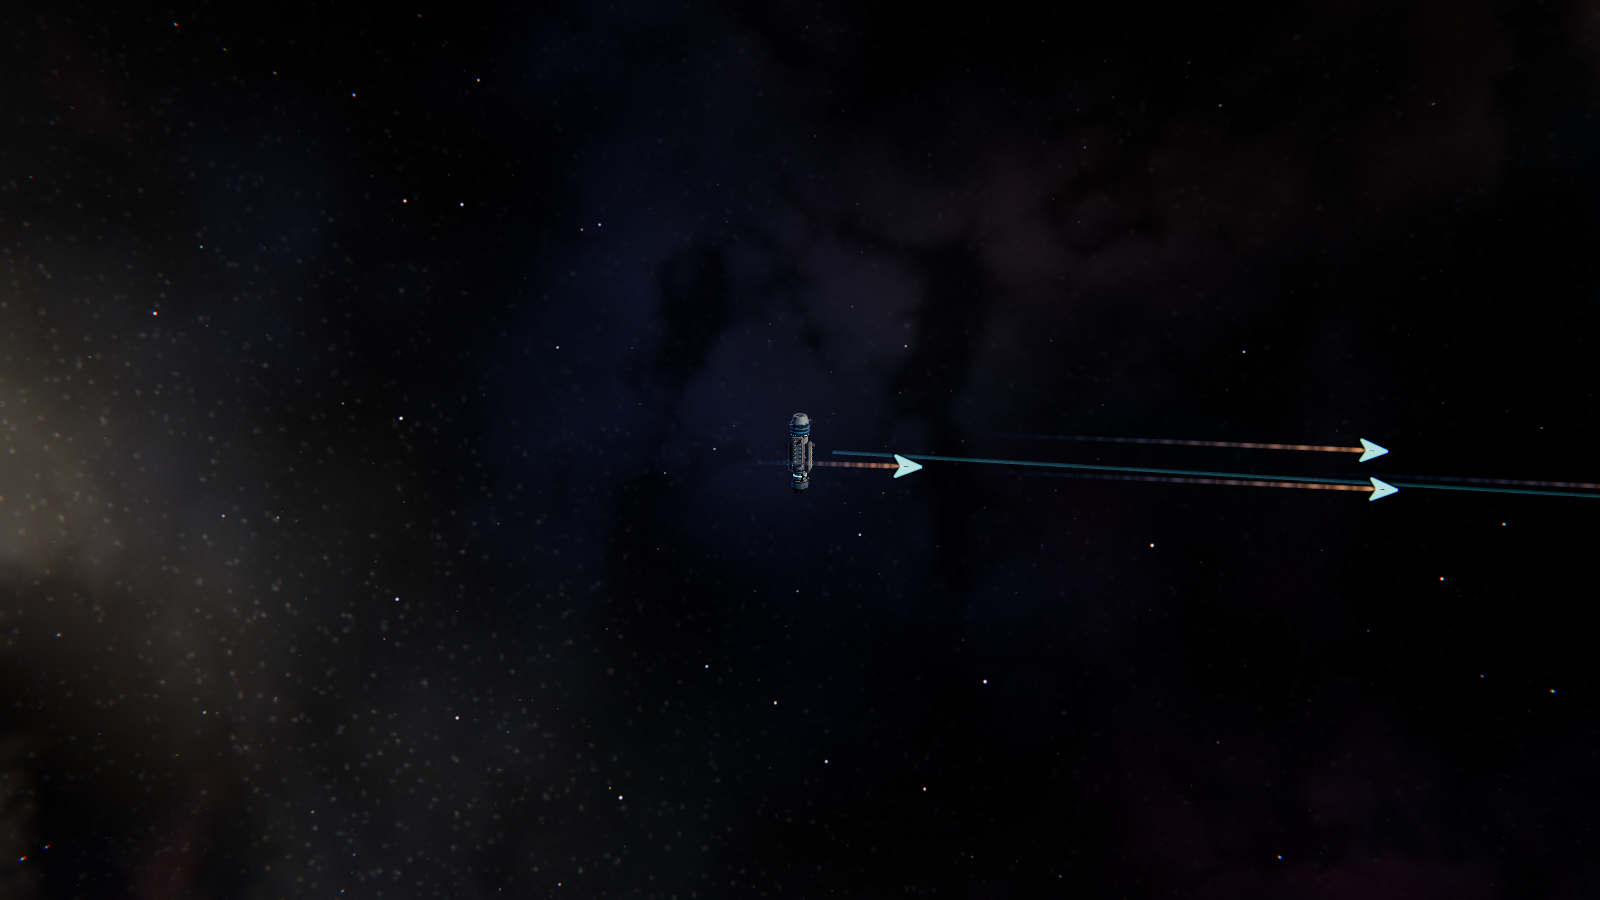
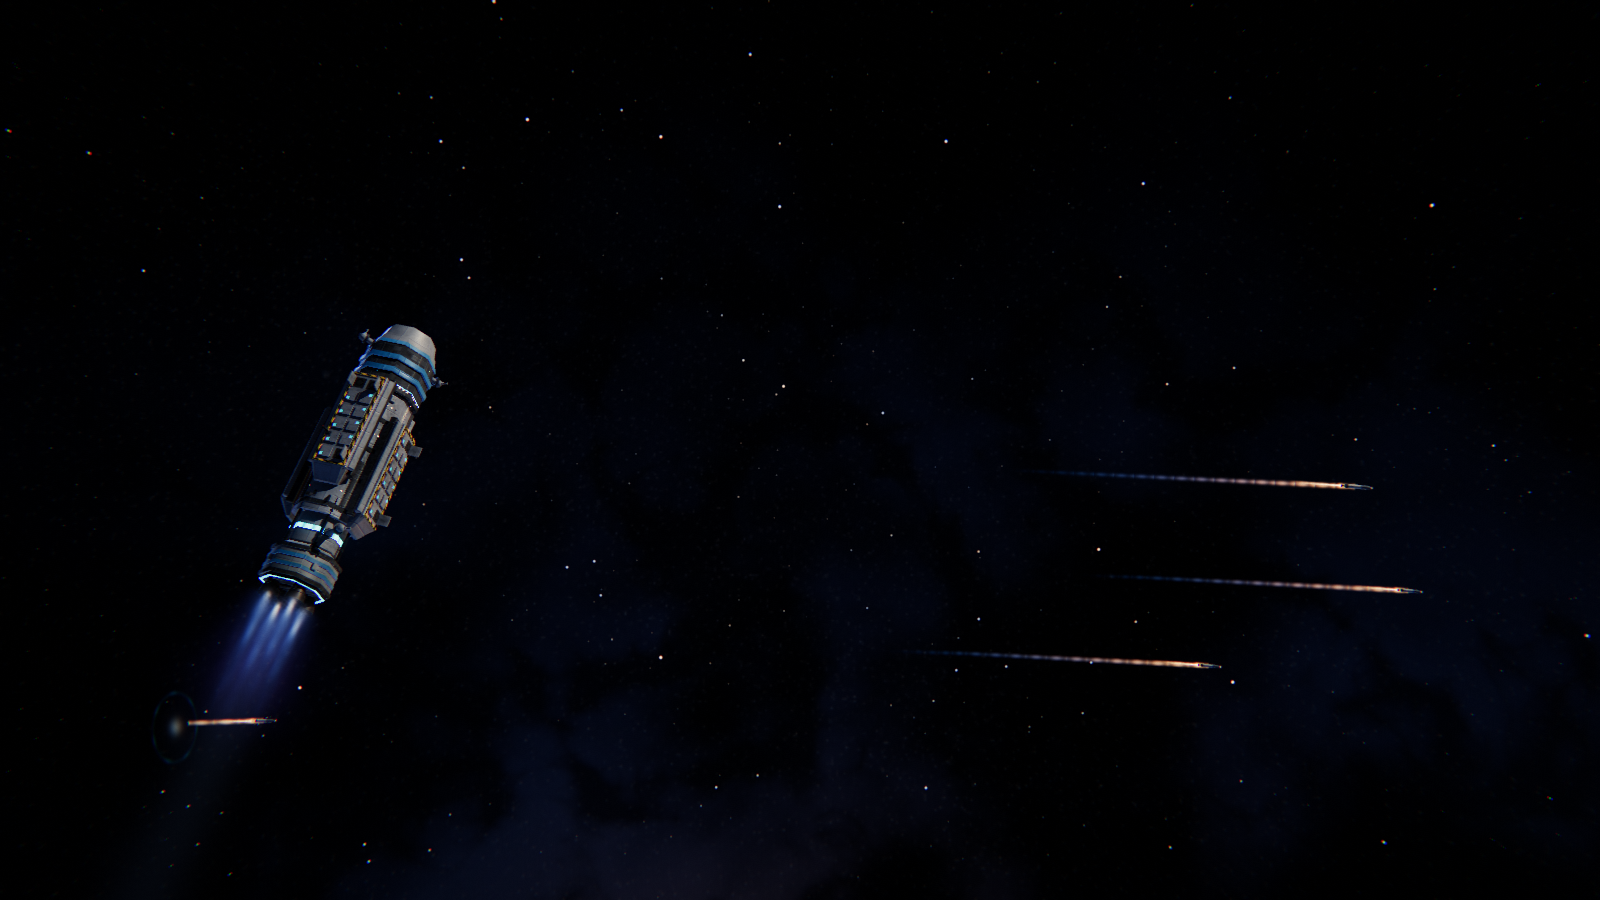
README: launch-tracks.png re-shot close - the torpedo cruiser in B8 with four engine trails leaving it
The cruiser a third of the frame with its cells, three rounds of a four-cell
launch pulling away on parallel trails and the fourth lighting off the stern
(B8, alpha_1, T+37.4); explicit camera, 40 degree lens, fleet-range torpedo
arrowheads switched off for the shot, stated in the capture command.

Claude-Session: https://claude.ai/code/session_01UG3jV6zwB9tH5e8W89WnJJ

diff --git a/docs/images/readme/README.md b/docs/images/readme/README.md
@@ -36,7 +36,7 @@ filters/scrolling, and for `command-net.png` a 2× device-scale crop.
 | `launch-cells.png` | Launch showcase | 31.0s | One second into the four-cell salvo: four units ~10 m off their open cells on the dorsal, ventral and flank banks, drifting out with the push-off; 1.0 hull lengths, azimuth 40°, elevation 37°; HUD hidden; scale auto |
 | `launch-separation.png` | Launch showcase | 32.5s | The separation: the four units tens of metres out, RCS puffs firing as they push clear and swing their noses toward the target; 1.3 hull lengths, azimuth 40°, elevation 37°; HUD hidden; scale auto |
 | `launch-ignition.png` | Launch showcase | 35.08s | Two units lighting their torches (light-off flash and ring) 94 m off the hull, the round lit at 34 s already streaking away (lower right), the fourth still separating; 1.6 hull lengths, azimuth 60°, elevation 20°; HUD hidden; scale auto |
-| `launch-tracks.png` | Launch showcase | 39.0s | Two to five seconds after their torches lit: the salvo's trails running side by side toward the target, the cruiser at left; 25 hull lengths, azimuth 10°, elevation 20°, 25° lens; HUD hidden (the arrowheads are the 3D torpedo markers, not HUD); scale auto |
+| `launch-tracks.png` | B8: Opus 5.5 admiral vs Sonnet 5.5 admiral, Haiku captains (`p5w5_b8_opus_v_sonnet55_admirals_haiku_captains.json`) | 37.4s | `alpha_1` TIS Harpoon (torpedo cruiser, under thrust) 7.4 s after a four-cell launch at T+30: three units lit at 35 s pulling away on parallel engine trails, the fourth (from the cell facing away, lit at 37 s) just off the stern with its light-off ring; explicit camera 0.7 km from the cruiser, 60° above the battle plane and tilted 30° aft, 40° lens; HUD hidden and the fleet-range torpedo arrowheads switched off for the shot (`markers.add`); scale auto |
 | `launch-rail.png` | Pass-5 launch demo (`p5_launch_sequence_demo.json.gz`, regenerated) | 0.8s | The corvette `beta` 0.8 s after a rail launch: the unit drifting off its port rail, the rack one round short; 1.0 hull lengths, azimuth 50°, elevation -30°; HUD hidden; scale auto |
 | `plume-wash.png` | Pass-5 plume demo (`p5_plume_demo.json`, scripted `plume_wash` battle) | 62s | From beside the stern of the battleship `alpha_1` (lower left, torch lit) down its exhaust: one beam from the bells, fading with distance, to the destroyer `alpha_2` 6 km astern, glowing in the wash; camera 1.1 hull lengths ahead of the battleship's centre, 0.5 above, 1.5 to port, looking 14 lengths astern; HUD hidden; scale auto |
 | `damage-bow.png` | Sonnet 5 vs Sonnet 5.5, battle d | 297.6s | Bow of `alpha_1` (Sonnet 5's battlecruiser) after 35 nose hits, 8 of them penetrations (the last at 297 s), all five mounts wrecked; its magazine burns at 298 s. Camera 0.66 hull lengths ahead of the centre, 0.2 above, 0.3 to port, looking at the bow; HUD hidden; scale auto |
@@ -108,6 +108,7 @@ staged.
 - Pass-5 damage demo: `p5_damage_demo.json`, a seeded heuristic fleet battle
   (regeneration command in
   [`docs/pass-5-recording-additions.md`](../../pass-5-recording-additions.md))
+- B8: `p5w5_b8_opus_v_sonnet55_admirals_haiku_captains.json` (Opus 5.5 admiral vs Sonnet 5.5 admiral, Haiku captains, on the final pass-5 build)
 - Pass-5 launch demo: `p5_launch_sequence_demo.json.gz` (`scripts/generate_test_battle.py torpedo_strike`,
   also in `data/recordings/`)
 - Launch showcase: `p5_plume2_launch_showcase.json.gz` (`scripts/generate_test_battle.py launch_showcase`,
@@ -201,8 +202,9 @@ $SNAP --recording p5_plume2_launch_showcase.json.gz --time 32.5 --focus alpha --
   --hide-ui --eval "$TRACKS_OFF" --out launch-separation.png
 $SNAP --recording p5_plume2_launch_showcase.json.gz --time 35.08 --focus alpha --dist 1.6 --az 60 --el 20 \
   --hide-ui --eval "$TRACKS_OFF" --out launch-ignition.png
-$SNAP --recording p5_plume2_launch_showcase.json.gz --time 39.0 --focus alpha --dist 25 --az 10 --el 20 --hide-ui \
-  --eval "(() => { $TRACKS_OFF; const c = window.visualizer.scene.camera; c.fov = 25; c.updateProjectionMatrix(); })()" \
+$SNAP --recording p5w5_b8_opus_v_sonnet55_admirals_haiku_captains.json --time 37.4 \
+  --camera=-309.422,-0.061,0.606 --target=-309.422,0.289,0 --hide-ui \
+  --eval "(() => { const v = window.visualizer; $TRACKS_OFF; v.scene.weapons.markers.add = () => {}; const c = v.scene.camera; c.fov = 40; c.updateProjectionMatrix(); })()" \
   --out launch-tracks.png
 $SNAP --recording p5_launch_sequence_demo.json.gz --time 0.8 --focus beta --dist 1.0 --az 50 --el -30 \
   --hide-ui --eval "$TRACKS_OFF" --out launch-rail.png

diff --git a/README.md b/README.md
@@ -99,9 +99,9 @@ Each of the nine hull classes has its own design, drawn to scale in faction live
 
 *It lights its engine only once it is clear, typically 4 to 5 s after launch; the round from the cell facing away from the target turns about first and lights later.*
 
-![The cruiser small at left, the salvo's torch trails running side by side toward the target](docs/images/readme/launch-tracks.png)
+![A torpedo cruiser under thrust, three torpedoes pulling away from it on parallel engine trails and a fourth just lighting its engine off the stern](docs/images/readme/launch-tracks.png)
 
-*Seconds later the salvo is a set of parallel tracks running at the target.*
+*Four tracks out of one ship: three rounds of a four-cell launch pull away on their engines, while the fourth, from the cell facing away from the target, lights two seconds later.*
 
 ![A corvette with a torpedo drifting off its port rail, the rack one round short](docs/images/readme/launch-rail.png)
 
